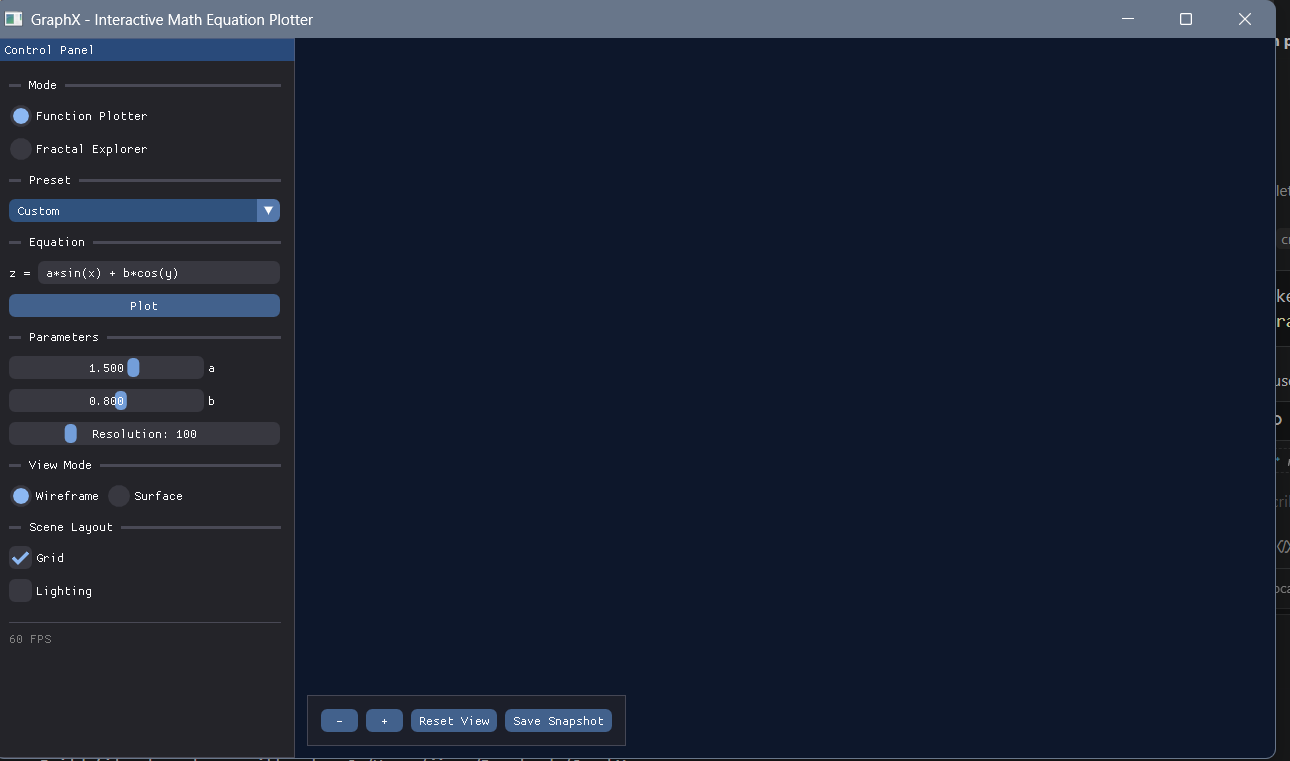
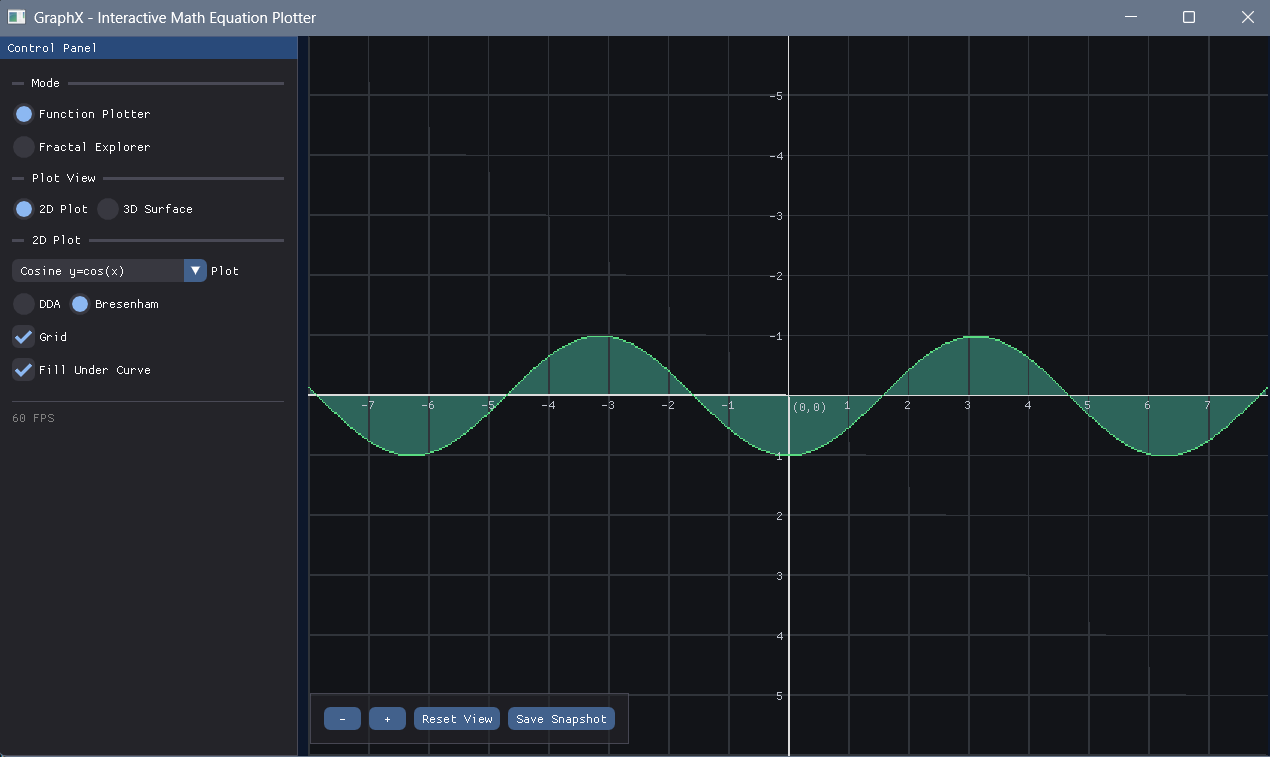
Update read-me

diff --git a/README.md b/README.md
@@ -3,7 +3,7 @@
 An iterative math visualization C++/OpenGL application that provides an interactive way to visualize mathematical functions and recursive fractal sets in real time. It allows students and lecturers to explore complex concepts visually, making mathematics easier to understand and more engaging.
 
 ## Group Members and responsibilities
-1. Jimmy Kariuki - System Integration, Testing and Documentation
+1. Jimmy Kariuki - Rasterization, Intergration and Testing
 2. Paul Obonyo - User Interface Design
 3. Gerald Aduda- System Architecture and Mode management
 4. Daniel Tashobya - 3D Surface engineering for equations
@@ -12,7 +12,7 @@ An iterative math visualization C++/OpenGL application that provides an interact
 
 ## Features
 
-- 3D explicit function plotting
+- 3D and 2D explicit function plotting
 - 2D fractal rendering with shaders
 
 ## Technologies and Tools Required
@@ -27,9 +27,9 @@ An iterative math visualization C++/OpenGL application that provides an interact
 - Dear ImGui
 ## Graphical Techniques and Algorithims
 Planned use of Line, Circle and Polygon algorrithms:
-1.  DDA/ Bresenham Line algoritm will be used to determine which pixels form a line
+1.  DDA/ Bresenham Line algoritm have been used to determine which pixels form a line in the 2D graph plotting.
 2. Scan Line Polygon fill will be used to fill interiors of drawn polyons.
-3. Midpoint Circle Algorithm will be used to plot circle pixels.
+3. Midpoint Circle Algorithm has been used to plot circle pixels in Circle Plotting.
 4. 3D Function plotting: Sample points will be connected to form  triangles and  displayed over the 3D surface as a filled mesh.
 5. 2D Fractal plotting: Iteration of preset number equations for each point in the viewport and coloring points according to their escape iteration count.
 ## Build
@@ -39,8 +39,20 @@ cmake --build build
 
 .\build\GraphX.exe
 
-## Current Progress and Limitations
-Current UI supports equations presents and input, plot settings and fractal settings, but these controls do not yet produce rendered graphs or fractals. The scene renderer and snapshot handlin are unfinished.
+## Implemented
+
+- CPU pixel buffer and DDA/Bresenham line algorithms
+- Midpoint circle drawing and scanline polygon filling
+- 2D plotting controls for line, parabola, sine, cosine, and circle
+- Coordinate grid, axes, and numeric axis labels
+- Optional fill beneath a 2D curve
+- Snapshot Saving
+
+## Inprogress and Limitation
+- 3D Explicit function plotting
+- 2D Fractals Plotting
+- Camera navigation like zooming, e.t.c
+- 2D Graph plotting uses preset functions, arbitrary equation input not yet supported
 
 ## Evidence Screenshots
 ![GraphX application screenshot](docs/screenshots/image.png)
